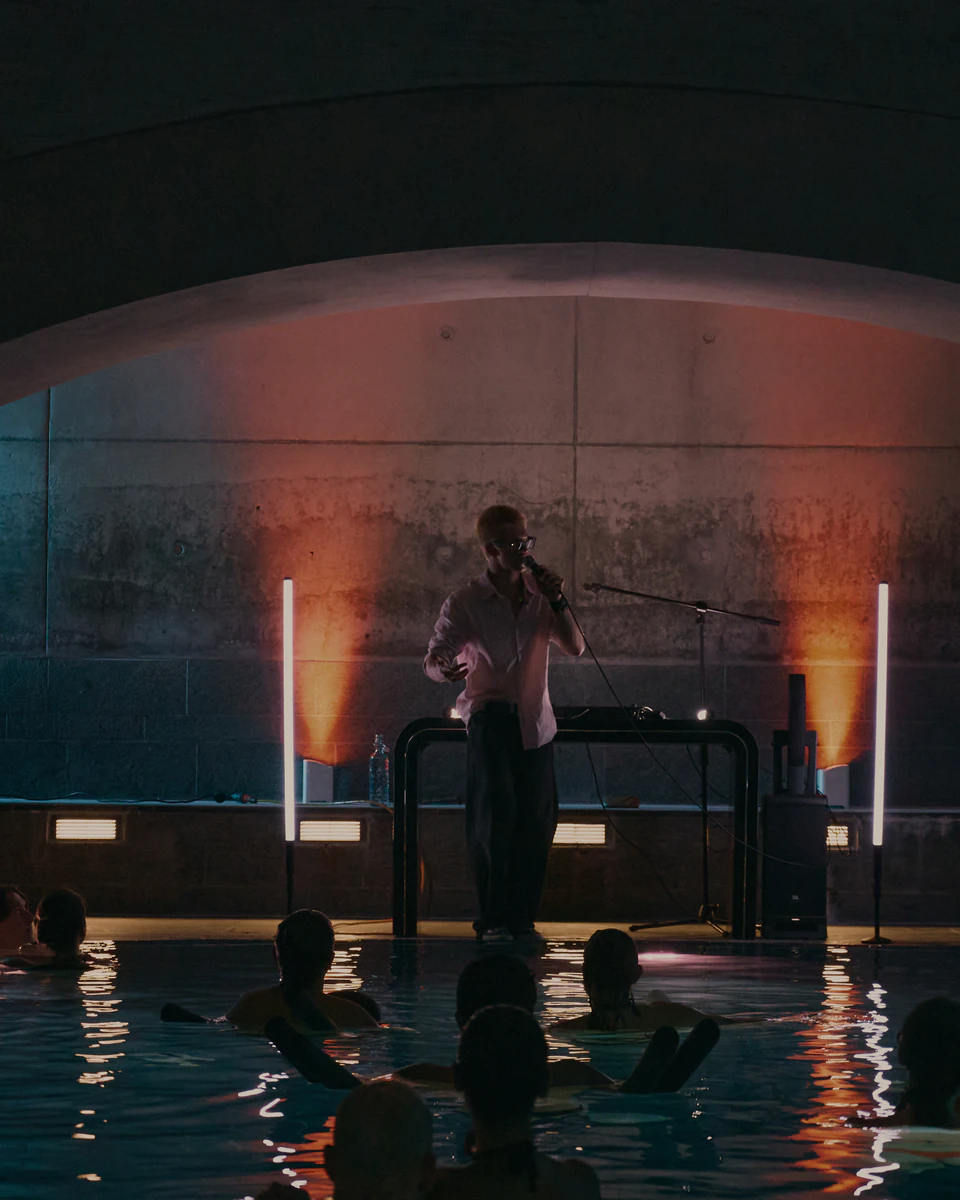
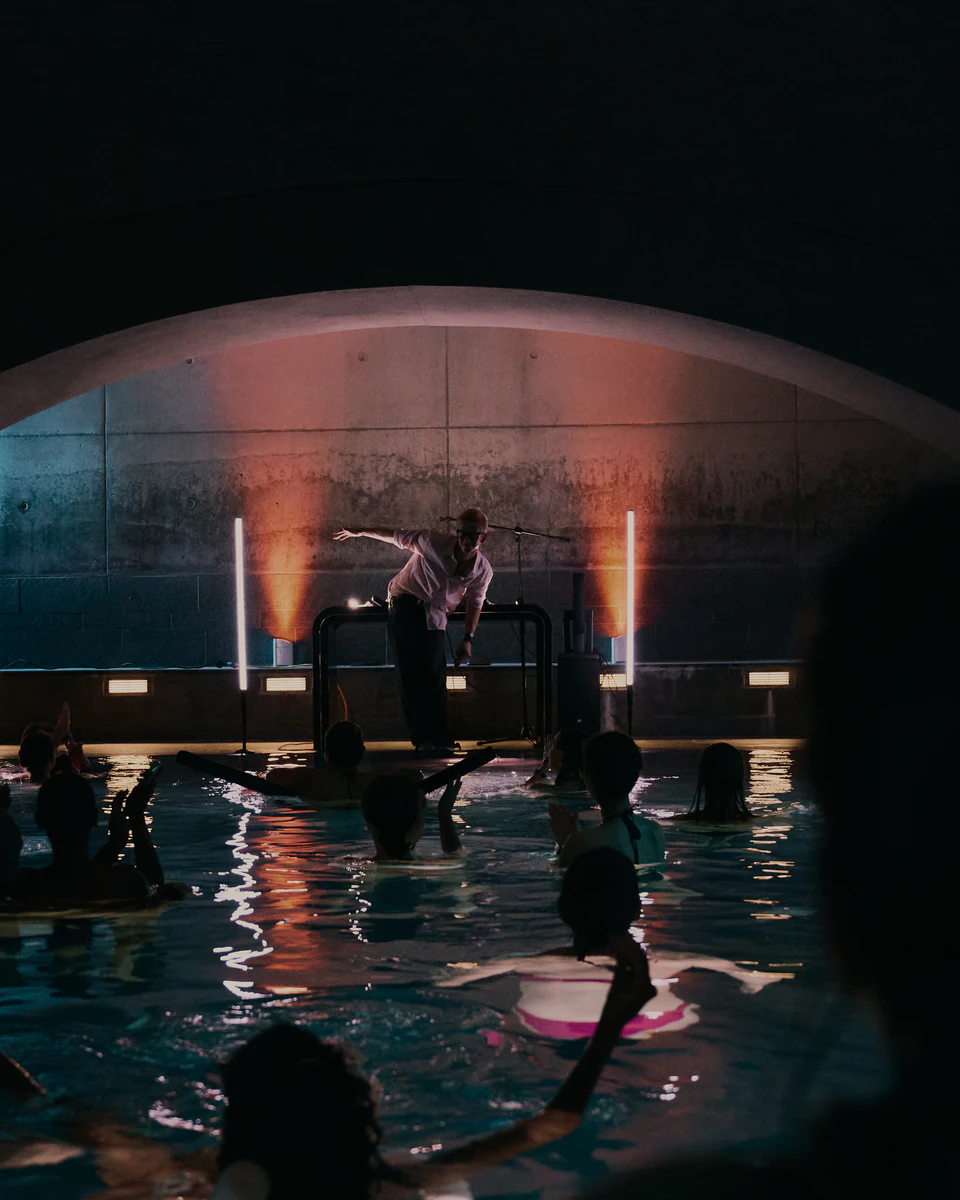
feat(portfolio): make mirrwal_004 the Mirrwal project's main photo
mirrwal_004 (DSC_1122, Mirrwal under the Liquidrom dome) now opens the
photo presentation, and the card cover is a 960x1200 crop of the same
frame, so the card and the first slide match.

diff --git a/src/data/portfolioProjects.ts b/src/data/portfolioProjects.ts
@@ -33,10 +33,11 @@ export const portfolioProjects: PortfolioProject[] = [
     location: 'Berlin',
     thumb: resolveImagePath('/src/assets/images/thumbs/portfolio/07/thumb_0.webp'),
     slideshowImages: [
+      // mirrwal_004 is the project's main photo (also the card cover): keep it first.
+      resolveImagePath('/src/assets/images/thumbs/portfolio/07/mirrwal_004.webp'),
       resolveImagePath('/src/assets/images/thumbs/portfolio/07/mirrwal_001.webp'),
       resolveImagePath('/src/assets/images/thumbs/portfolio/07/mirrwal_002.webp'),
       resolveImagePath('/src/assets/images/thumbs/portfolio/07/mirrwal_003.webp'),
-      resolveImagePath('/src/assets/images/thumbs/portfolio/07/mirrwal_004.webp'),
       resolveImagePath('/src/assets/images/thumbs/portfolio/07/mirrwal_005.webp'),
       resolveImagePath('/src/assets/images/thumbs/portfolio/07/mirrwal_006.webp'),
       resolveImagePath('/src/assets/images/thumbs/portfolio/07/mirrwal_007.webp'),
